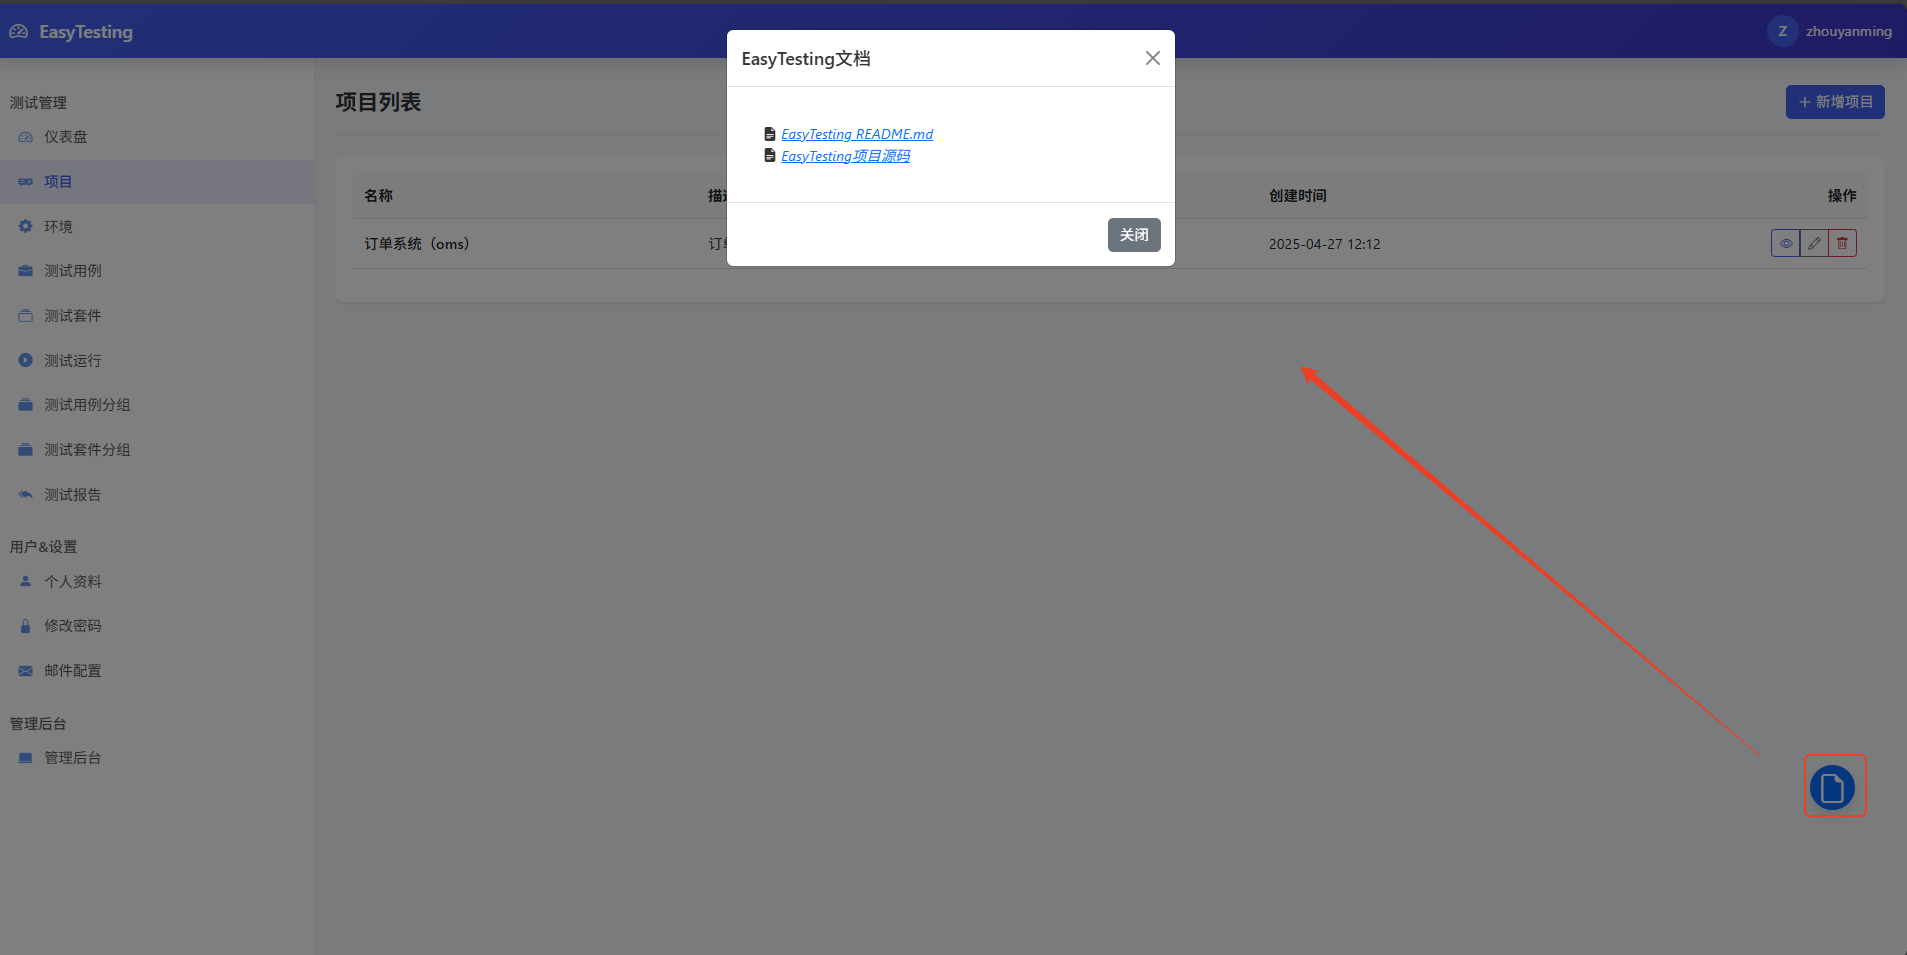
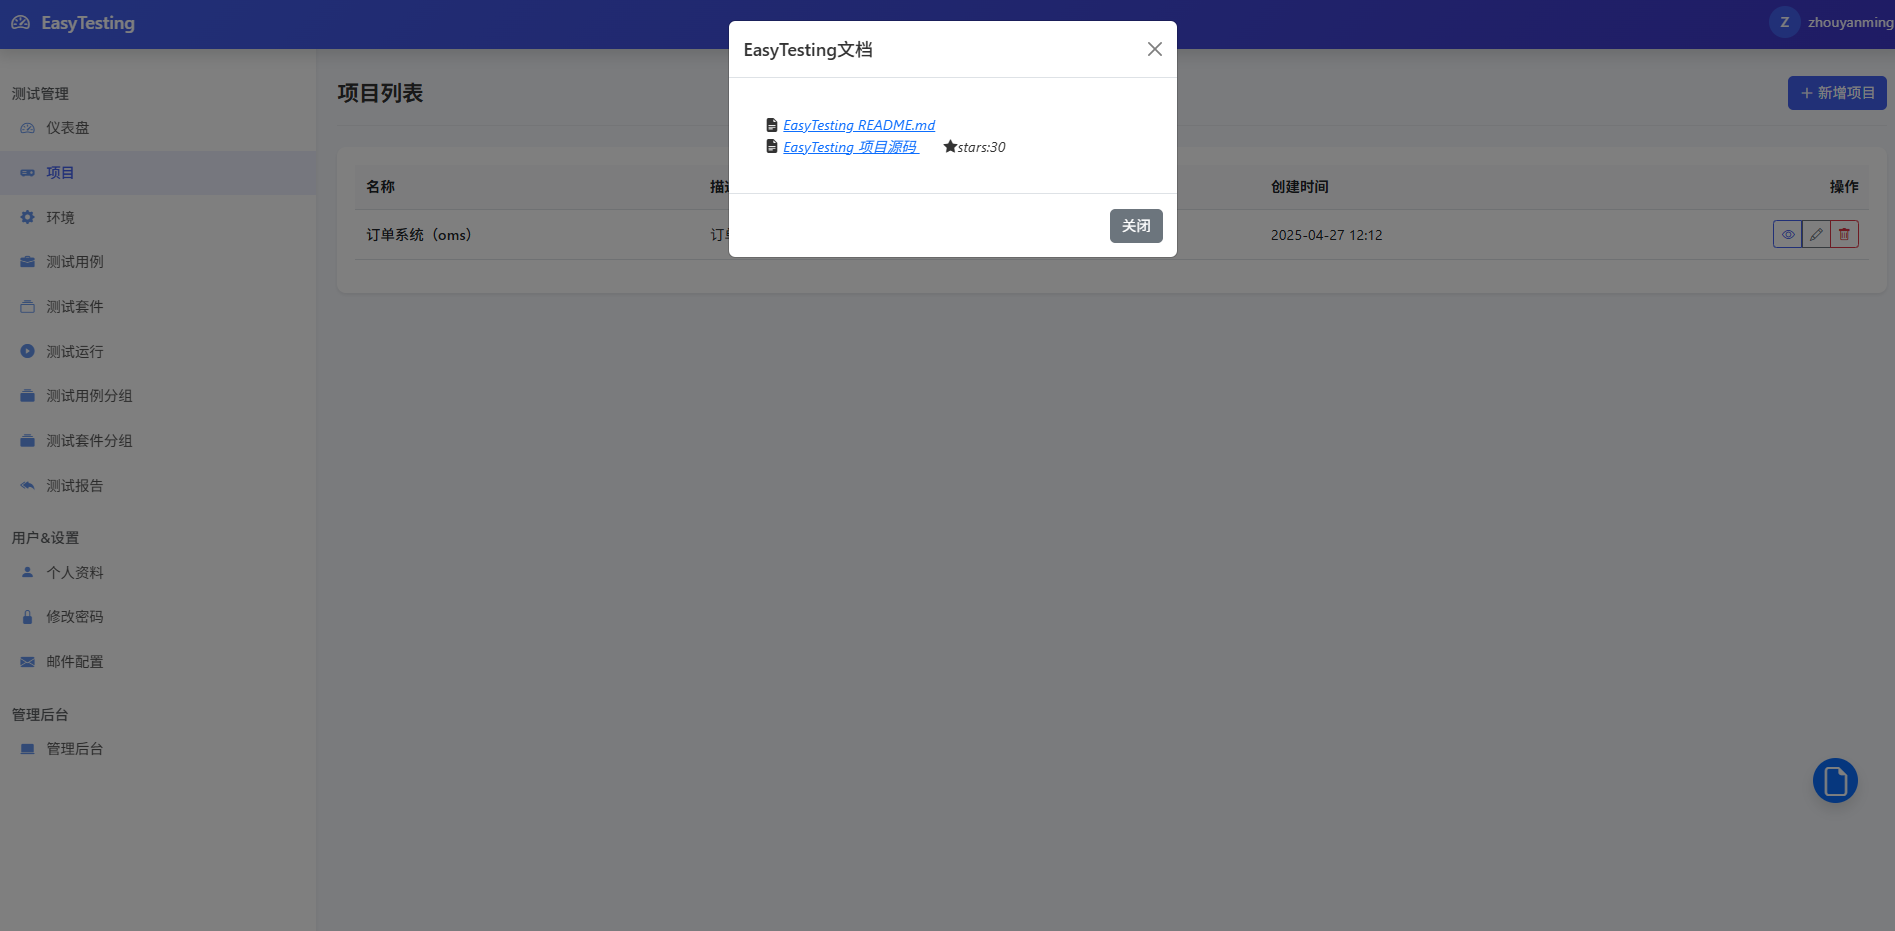
悬浮球中项目链接调用gitee接口获取项目start数量

diff --git a/templates/base.html b/templates/base.html
@@ -546,7 +546,11 @@
                                target="_blank">EasyTesting README.md</a>
                         </i>
                         <i class="bi bi-file-earmark-text-fill">
-                            <a href="https://gitee.com/joyamon/easy-testing" target="_blank">EasyTesting项目源码 </a>
+
+                            <a href="https://gitee.com/joyamon/easy-testing" target="_blank">EasyTesting 项目源码
+
+                            </a>
+                            &nbsp&nbsp&nbsp&nbsp&nbsp&nbsp<i class="bi bi-star-fill">stars:<span id="star-count">0</span></i>
                         </i>
                     </div>
                 </div>
@@ -634,6 +638,21 @@
             myModal.show();
         }
     });
+</script>
+<script>
+    fetch('https://gitee.com/api/v5/repos/Joyamon/easy-testing')
+        .then(response => response.json())      // 把响应转为JSON对象
+        .then(data => {
+            // 找到指定的HTML元素
+            const starCountElement = document.getElementById('star-count');
+            // 渲染star数量
+            starCountElement.textContent = data.stargazers_count;     // 处理返回的数据
+        })
+        .catch(error => {
+            console.error('请求失败:', error);
+        });
+
+
 </script>
 {% block extra_js %}{% endblock %}
 </body>

diff --git a/README.md b/README.md
@@ -33,7 +33,7 @@
    python -m venv venv
    source venv/bin/activate 
    ```
-3. 按照依赖:
+3. 安装依赖:
    ```
    pip install -r requirements.txt
    ```
